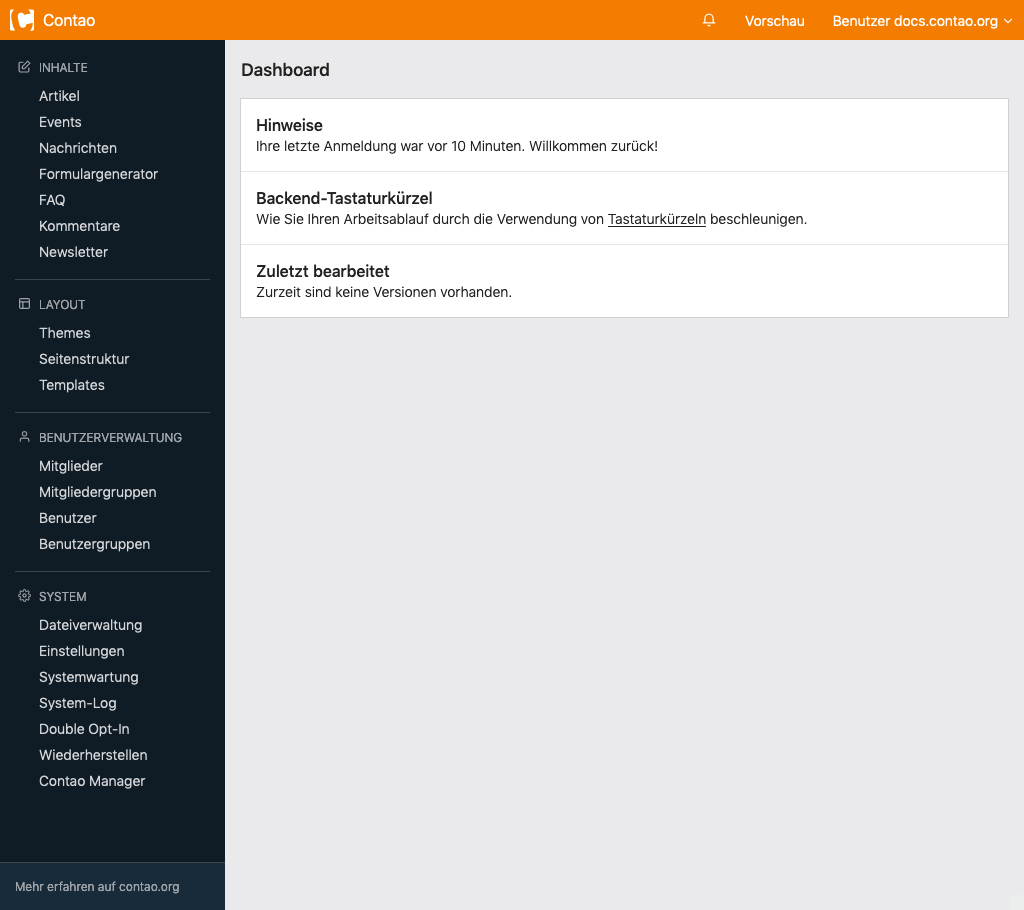
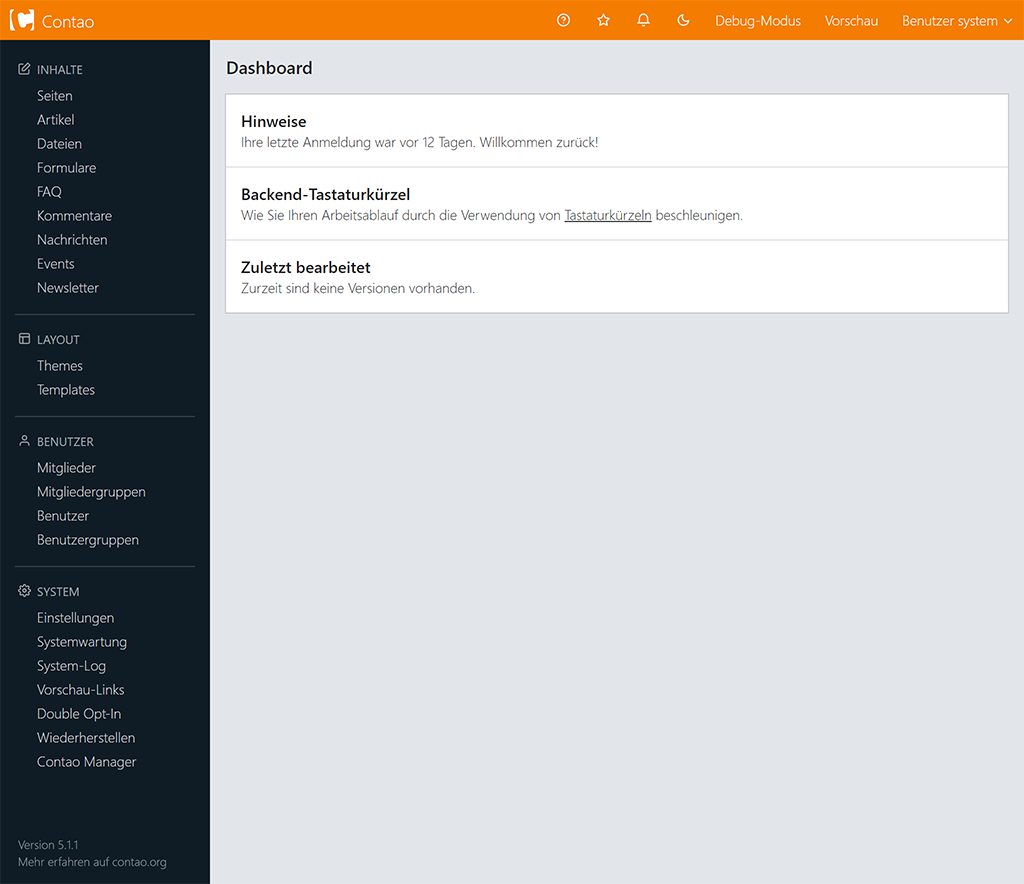
Add 5.1 features to administration area (#1174)

diff --git a/docs/manual/administration-area/accessing-and-structure-of-the-backend.de.md b/docs/manual/administration-area/accessing-and-structure-of-the-backend.de.md
@@ -40,27 +40,32 @@ Der Infobereich zeigt einige wichtige Links an, die beim Arbeiten mit Contao imm
 
 **Startseite:** Ein Klick auf das Contao-Logo führt zur Startseite des Backends zurück.
 
+**Handbuch:** Beim Klick auf diesen Link wird das Handbuch aufgerufen.
+
+**Favorit speichern:** {{< version-tag "5.1" >}} Beim Klick auf diesen Link kannst du die aktuelle URL im Backend als Favorit Eintrag 
+speichern. Vorhandene Favoriten-Links werden im Navigationsbereich aufgeführt.
+
 **Hinweise:** Beim Klick auf diesen Link öffnet ein Modal und zeigt mögliche Hinweise (z. B. Wartungsmodus) an.
 
-**Debug-Modus:** Beim Klick auf diesen Link wird der [Debug-Modus](../../system/debug-modus/) eingeschaltet bzw. ausgeschaltet.
-{{< version "4.8" >}}
+**Design:** {{< version-tag "5.1" >}} Du kannst zwischen hellen und dunklen Backend-Design wählen.
 
-**Vorschau:** Dieser Link ruft das Frontend, also die eigentliche Webseite, in einem neuen Fenster auf. Wenn du eine
-bestimmte Seite oder einen Artikel im Backend bearbeitest, wirst du automatisch auf die entsprechende Seite im Frontend
-weitergeleitet.
+**Debug-Modus:** {{< version-tag "4.8" >}} Beim Klick auf diesen Link wird der [Debug-Modus](../../system/debug-modus/) eingeschaltet bzw. ausgeschaltet.
+
+**Vorschau:** Dieser Link ruft das Frontend, also die eigentliche Webseite, in einem neuen Fenster auf. Wenn du eine bestimmte Seite 
+oder einen Artikel im Backend bearbeitest, wirst du automatisch auf die entsprechende Seite im Frontend weitergeleitet.
 
 **Benutzer:** Beim Klick auf Benutzer werden folgende Links angezeigt:
+  + **Profil:** Dieser Link führt zu den persönlichen Einstellungen deines Benutzerkontos. Du kannst dort z. B. dein Passwort ändern oder 
+  die Sprache wechseln.
 
-**Profil:** Dieser Link führt zu den persönlichen Einstellungen deines Benutzerkontos. Du kannst dort z. B. dein
-Passwort ändern oder die Sprache wechseln.
+  + **Sicherheit:** {{< version-tag "4.6" >}} Über diesen Link kann die [Zwei-Faktor-Authentifizierung](https://de.wikipedia.org/wiki/Zwei-Faktor-Authentisierung) 
+  für die Anmeldung im Backend aktiviert werden.
 
-**Abmelden:** Über diesen Link kannst du dich vom Backend abmelden.
+  + **Favoriten:** {{< version-tag "5.1" >}} Über diesen Link erreichst du die Verwaltung der Favoriten.
 
-**Sicherheit:** Über diesen Link kann die 
-[Zwei-Faktor-Authentifizierung](https://de.wikipedia.org/wiki/Zwei-Faktor-Authentisierung) für dein Backend aktiviert 
-werden.
-{{< version "4.6" >}}
+  + **Abmelden:** Über diesen Link kannst du dich vom Backend abmelden.
 
+  
 
 ### Der Navigationsbereich
 

diff --git a/docs/manual/administration-area/accessing-and-structure-of-the-backend.en.md b/docs/manual/administration-area/accessing-and-structure-of-the-backend.en.md
@@ -31,20 +31,30 @@ The info area shows some important links that are needed when working with Conta
 
 **Homepage:** A click on the Contao logo takes you back to the homepage of the back end.
 
-**Notes:** Clicking on this link opens a modal and displays possible hints (e.g. maintenance mode).
+**Manual:** Clicking this link opens the manual.
 
-**Debug Mode:** Clicking on this link will switch the [debug mode](/en/system/debug-mode/) on or off.{{< version "4.8" >}}
+**Save Favorite:** {{< version-tag "5.1" >}} By clicking on this link you can save the current back end URL as a favorite entry. Existing 
+favorite links are listed in the navigation area.
+
+**Notes:** Clicking this link opens a modal and displays possible hints (e.g. maintenance mode).
+
+**Design:** {{< version-tag "5.1" >}} You can choose between light and dark mode.
+
+**Debug Mode:** {{< version-tag "4.8" >}} Clicking this link will switch the [debug mode](/en/system/debug-mode/) on or off.
 
 **Preview:** This link opens the frontend, i.e. the actual website, in a new window. If you edit a specific page or article in the back end, you will be automatically forwarded to the corresponding page in the frontend.
 
 **User:** When you click on User, the following links are displayed:
 
-**Profile:** This link leads to the personal settings of your user account. There you can change your password or change the language.
+  + **Profile:** This link leads to the personal settings of your user account. There you can change your password or change the language.
 
-**Log out:** Log out of the back end here.
+  + **Security:** {{< version-tag "4.8" >}} Activate the two-factor authentication for your back end.
 
-**Security:** Activate the two-factor authentication for your back end.{{< version "4.6" >}}
+  + **Favorites:** {{< version-tag "5.1" >}} This link will take you to your favorite management.
 
+  + **Log out:** Log out of the back end here.
+
+  
 ### The navigation area
 
 The navigation area contains links to the different back end modules, each of which fulfills a specific task. For a better overview, the modules are organized in groups that you can expand and collapse as needed.
